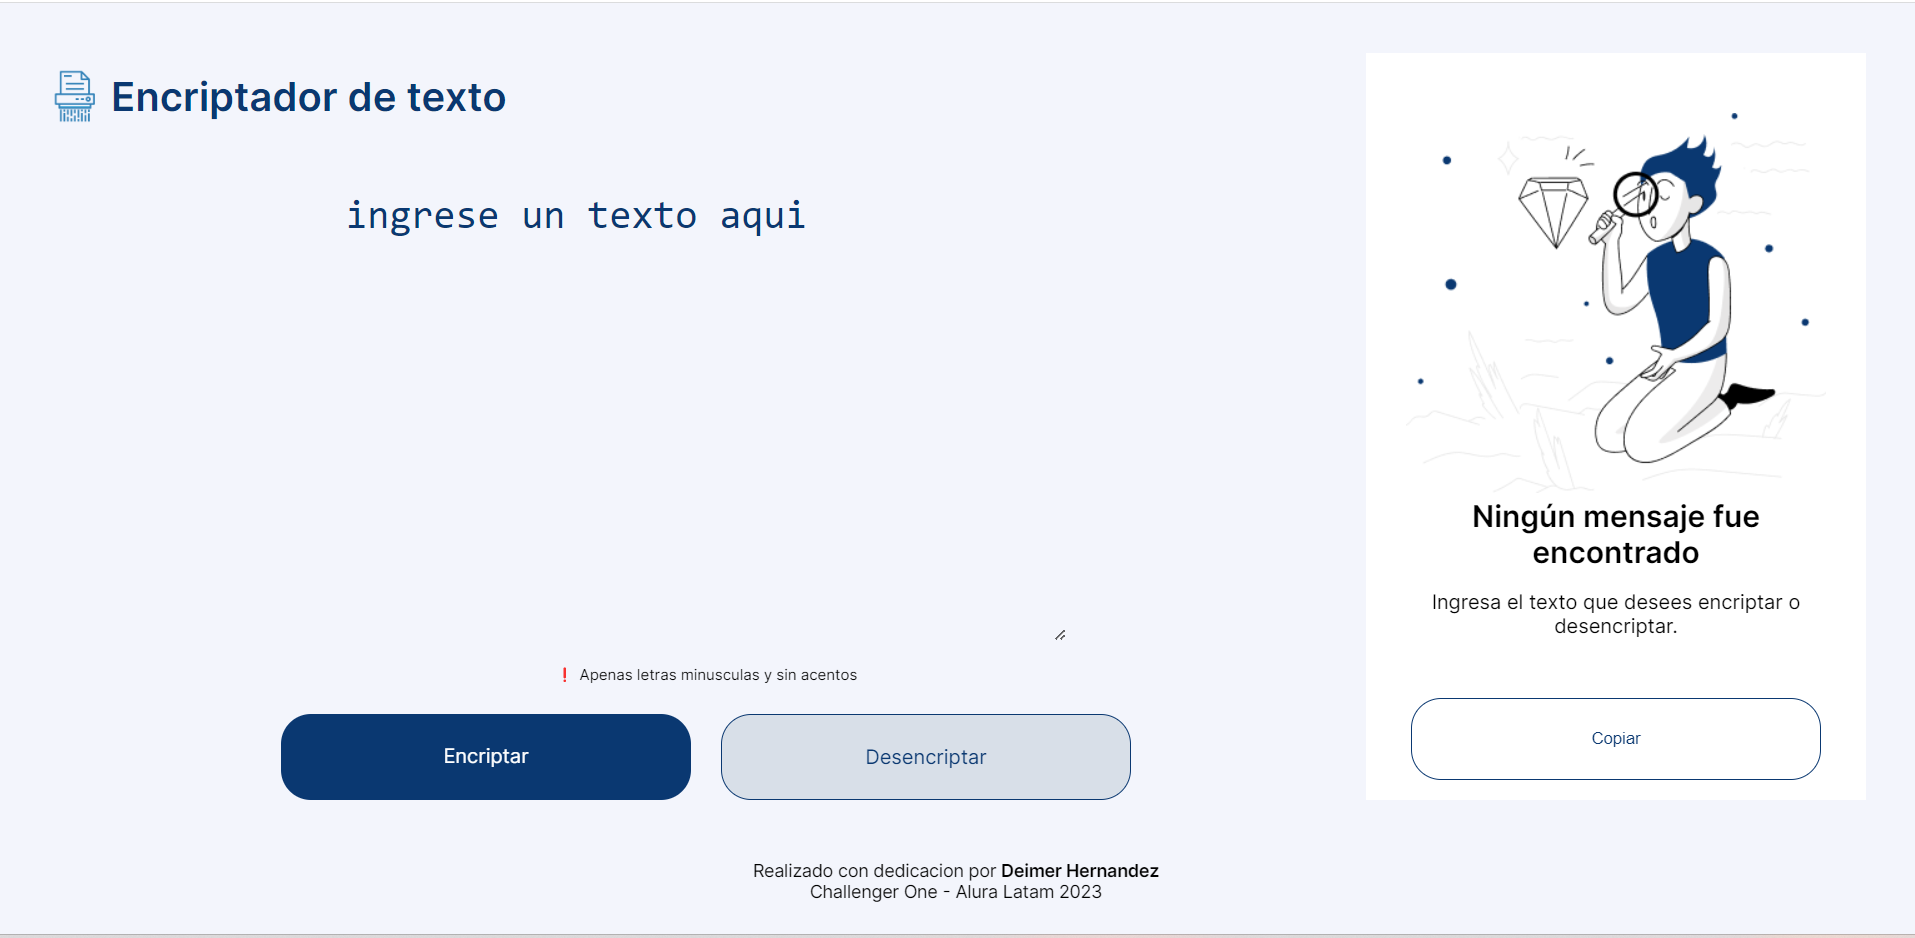
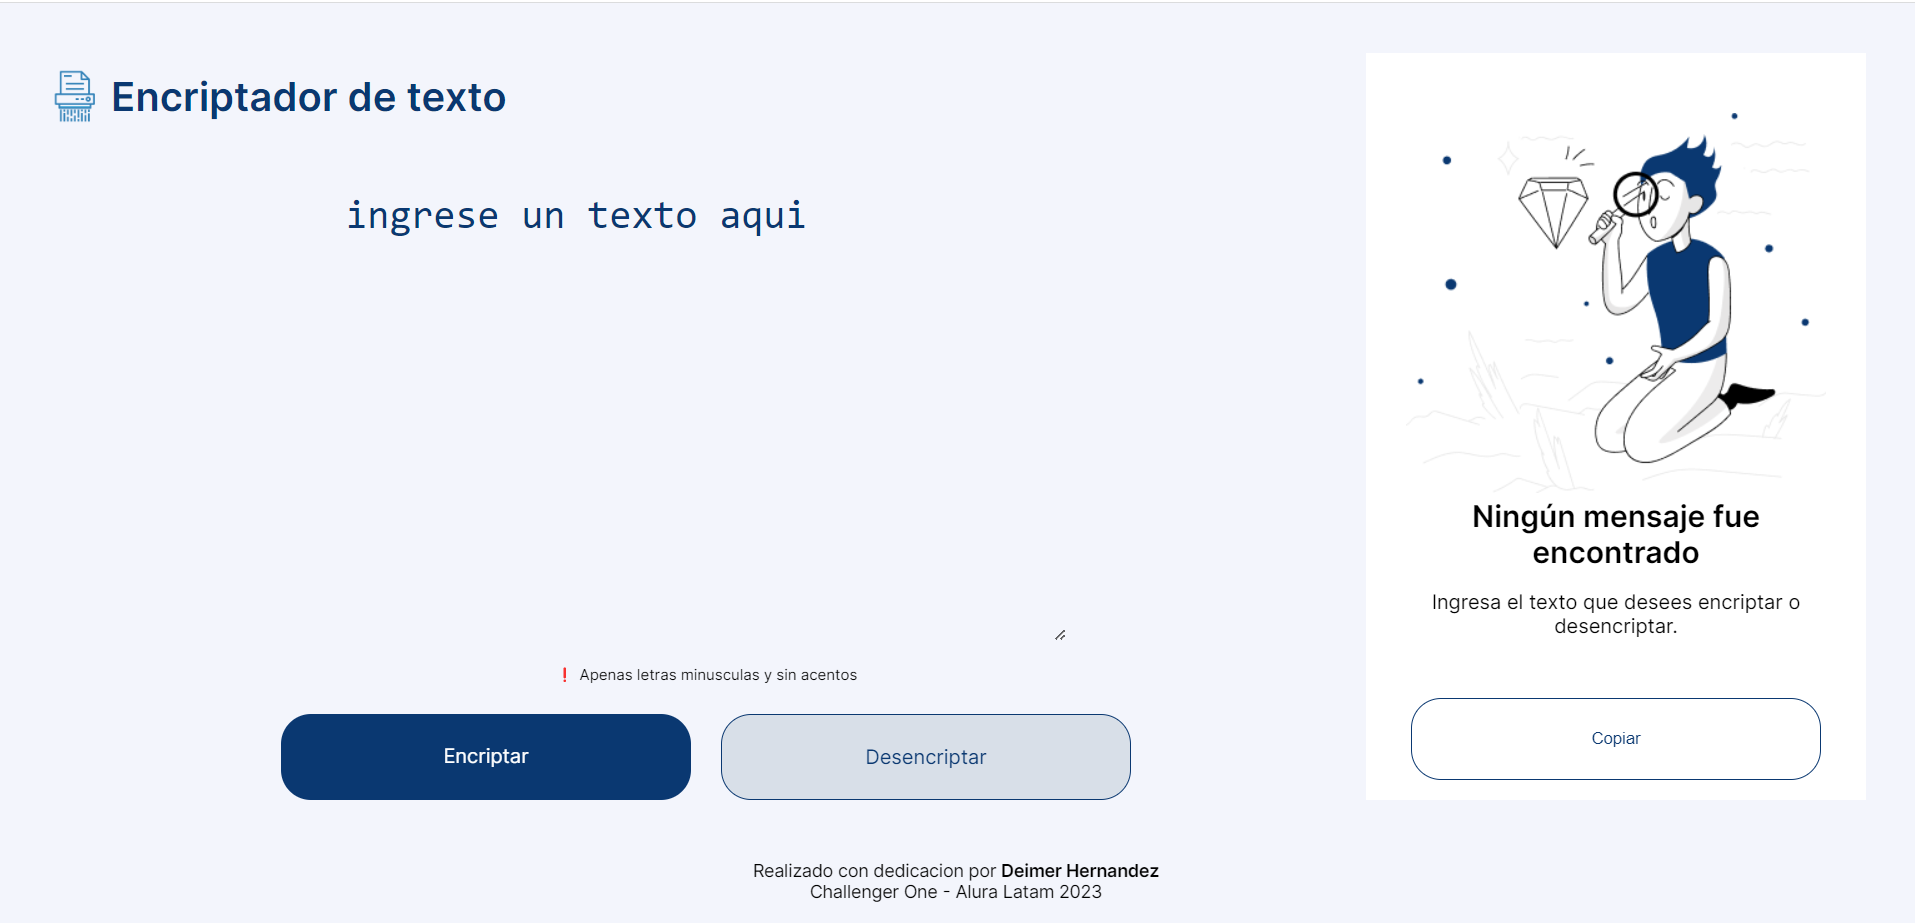
Agregando idoma español por defecto y recortando imagen

diff --git a/index.html b/index.html
@@ -1,5 +1,5 @@
 <!DOCTYPE html>
-<html lang="en">
+<html lang="es">
 <head>
     <meta charset="UTF-8">
     <meta http-equiv="X-UA-Compatible" content="IE=edge">
